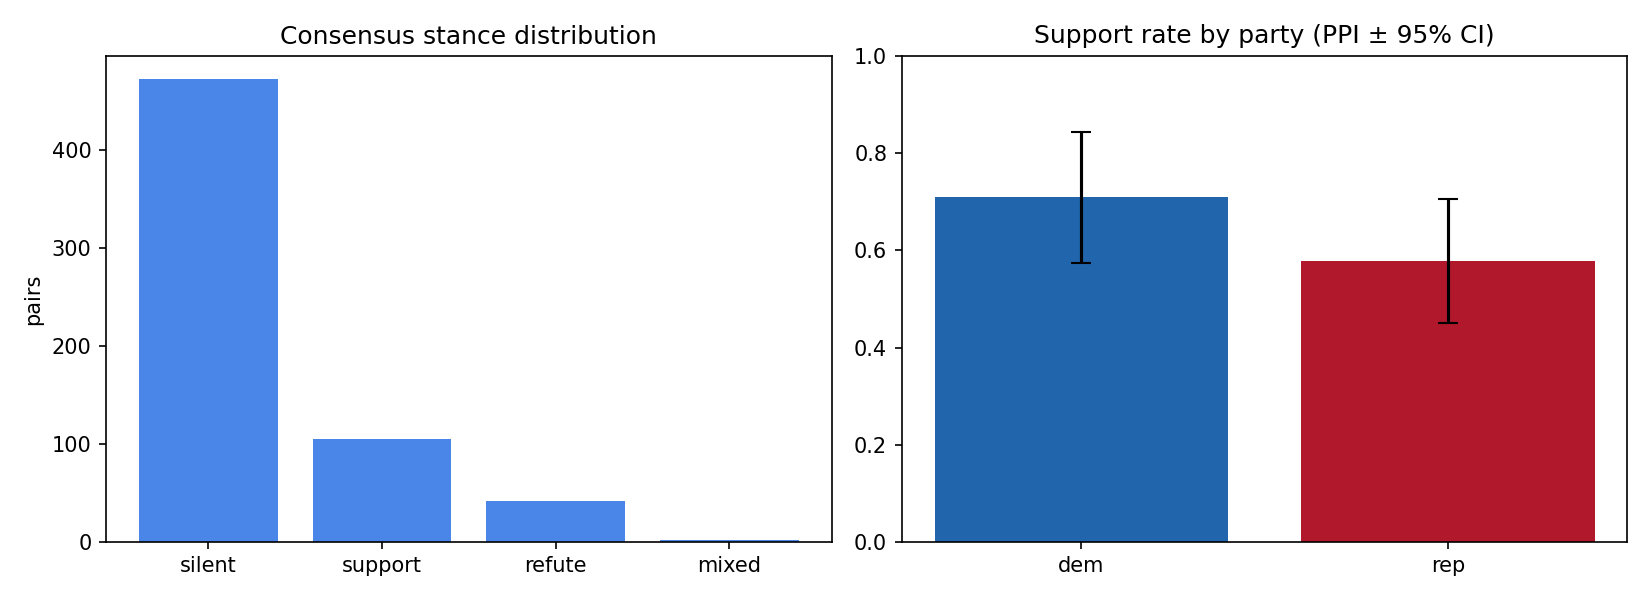
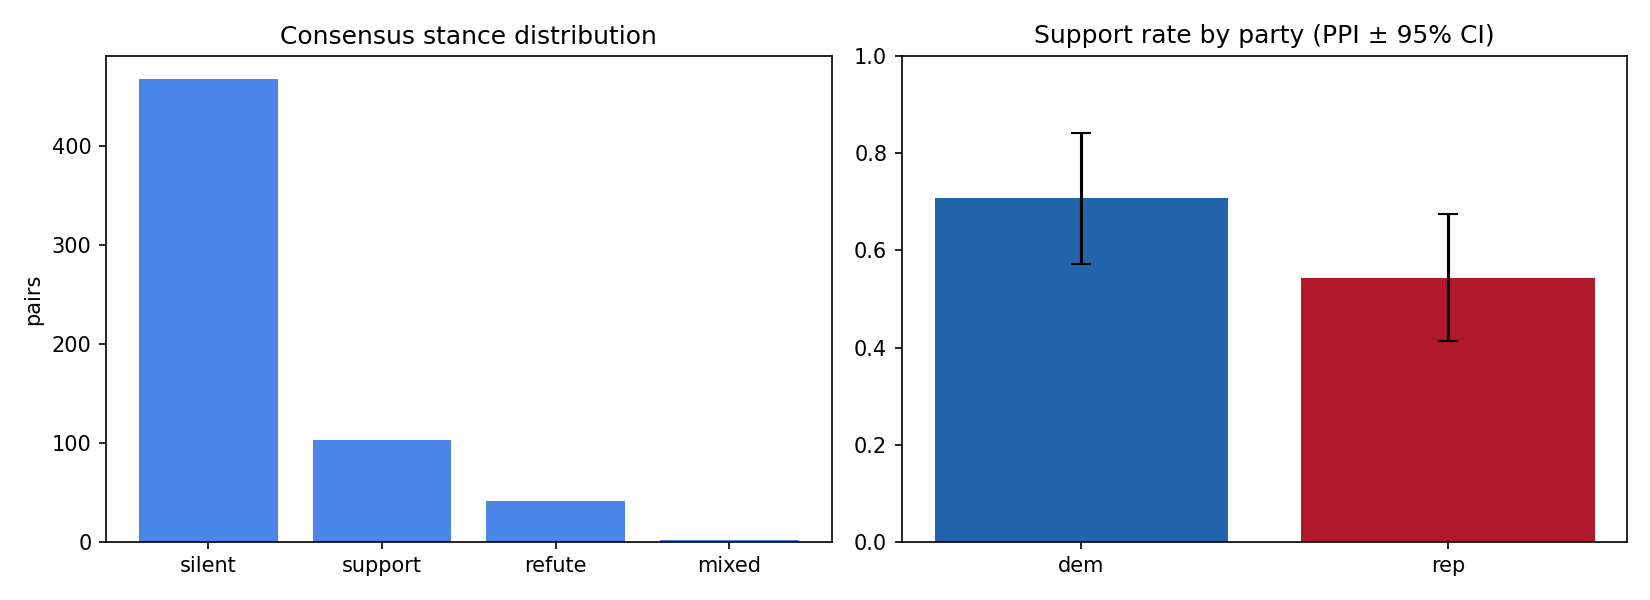
validation: de-duplicate pairs (review fix); n=614, gold 120; PPI Dem 0.71 / Rep 0.54

diff --git a/scripts/core/autonomous_validation.py b/scripts/core/autonomous_validation.py
@@ -66,6 +66,7 @@ def load_pairs(party, per_claim, max_pairs):
     rows = json.load(open(path))
     rows = rows if isinstance(rows, list) else list(rows.values())
     pairs = []
+    seen = set()
     for entry in rows:
         claim = (entry.get("claim_text") or "").strip()
         if not claim:
@@ -74,10 +75,14 @@ def load_pairs(party, per_claim, max_pairs):
             abstract, title = (r.get("abstract") or "").strip(), (r.get("title") or "").strip()
             if not (abstract or title):
                 continue
-            uid = r.get("doi") or r.get("id") or r.get("url") or f"{entry.get('press_release')}#{entry.get('claim_number')}#{i}"
+            uid = str(r.get("doi") or r.get("id") or r.get("url") or f"{entry.get('press_release')}#{entry.get('claim_number')}#{i}")
+            key = f"{party}|{entry.get('press_release')}|{entry.get('claim_number')}|{uid}"
+            if key in seen:   # de-duplicate identical (party,press_release,claim,ref) pairs
+                continue
+            seen.add(key)
             pairs.append({"party": party, "press_release": entry.get("press_release"),
                           "claim_number": entry.get("claim_number"), "claim_text": claim,
-                          "ref_uid": str(uid), "ref_title": title, "ref_abstract": abstract,
+                          "ref_uid": uid, "ref_title": title, "ref_abstract": abstract,
                           "ref_year": r.get("year"), "ref_venue": r.get("venue")})
             if max_pairs and len(pairs) >= max_pairs:
                 return pairs

diff --git a/outputs/stance/validation_report.md b/outputs/stance/validation_report.md
@@ -1,22 +1,22 @@
 # Autonomous validation report (open-source models)
 
-- Pairs judged: **621**  |  Validators: **claude_judge, nli_deberta, nli_bart**
+- Pairs judged: **614**  |  Validators: **claude_judge, nli_deberta, nli_bart**
 - Models: `claude_judge`=Claude Opus 4.8 (claude-opus-4-8), `nli_deberta`=MoritzLaurer/DeBERTa-v3-base-mnli-fever-anli, `nli_bart`=facebook/bart-large-mnli
-- Unanimous (high-confidence) pairs: **474** (76.3%)
+- Unanimous (high-confidence) pairs: **472** (76.9%)
 
 ## Cross-validator agreement (autonomous inter-annotator reliability)
-- `claude_judge~nli_deberta`: 41.9% agree, κ=0.202 (n=124)
-- `claude_judge~nli_bart`: 37.9% agree, κ=0.143 (n=124)
-- `nli_deberta~nli_bart`: 86.3% agree, κ=0.654 (n=621)
+- `claude_judge~nli_deberta`: 43.3% agree, κ=0.214 (n=120)
+- `claude_judge~nli_bart`: 39.2% agree, κ=0.151 (n=120)
+- `nli_deberta~nli_bart`: 86.5% agree, κ=0.658 (n=614)
 
 ## Consensus stance distribution
 
-- silent: 472 (76.0%)
-- support: 105 (16.9%)
-- refute: 42 (6.8%)
+- silent: 468 (76.2%)
+- support: 103 (16.8%)
+- refute: 41 (6.7%)
 - mixed: 2 (0.3%)
 
 ## Support rate by party (PPI-debiased; gold anchor = Claude Opus 4.8 gold labels (n where judged))
 
-- **dem**: 0.709 (95% CI [0.5741, 0.8437]; naive 0.209; anchor n=60/292)
-- **rep**: 0.578 (95% CI [0.4513, 0.705]; naive 0.109; anchor n=64/329)
+- **dem**: 0.708 (95% CI [0.5727, 0.8425]; naive 0.208; anchor n=60/289)
+- **rep**: 0.544 (95% CI [0.4142, 0.6741]; naive 0.111; anchor n=60/325)